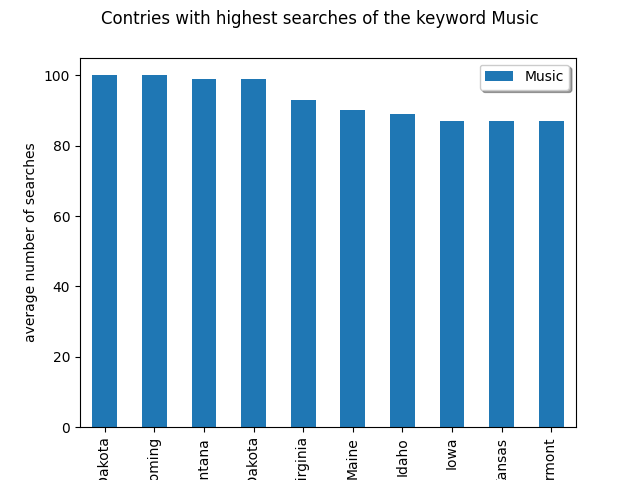
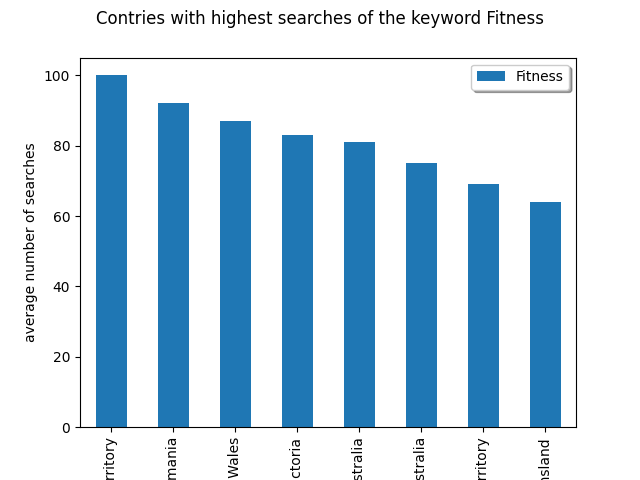
progress

diff --git a/app.py b/app.py
@@ -49,7 +49,7 @@ def index():
     
     
    
-    keyword=['Music']
+    keyword=['Fitness']
     # extract data about keywords
     # your_input=str(input('Enter the keyword: '))
     # your_input='Computer'
@@ -58,9 +58,9 @@ def index():
     # keyword.insert(0, your_input)
     # pytrends.build_payload(keyword,timeframe= 'today 3-m',gprop = 'youtube')
 
-    pytrends.build_payload(keyword,timeframe=f'2020-02-26 {date.today()}', gprop = 'youtube', geo='US')
+    pytrends.build_payload(keyword,timeframe=f'2020-02-26 {date.today()}', gprop = 'youtube', geo='AU')
     # word=keyword.pop()
-    word='Music'
+    word='Fitness'
     
     # specify and get data
     data= pytrends.interest_over_time()
